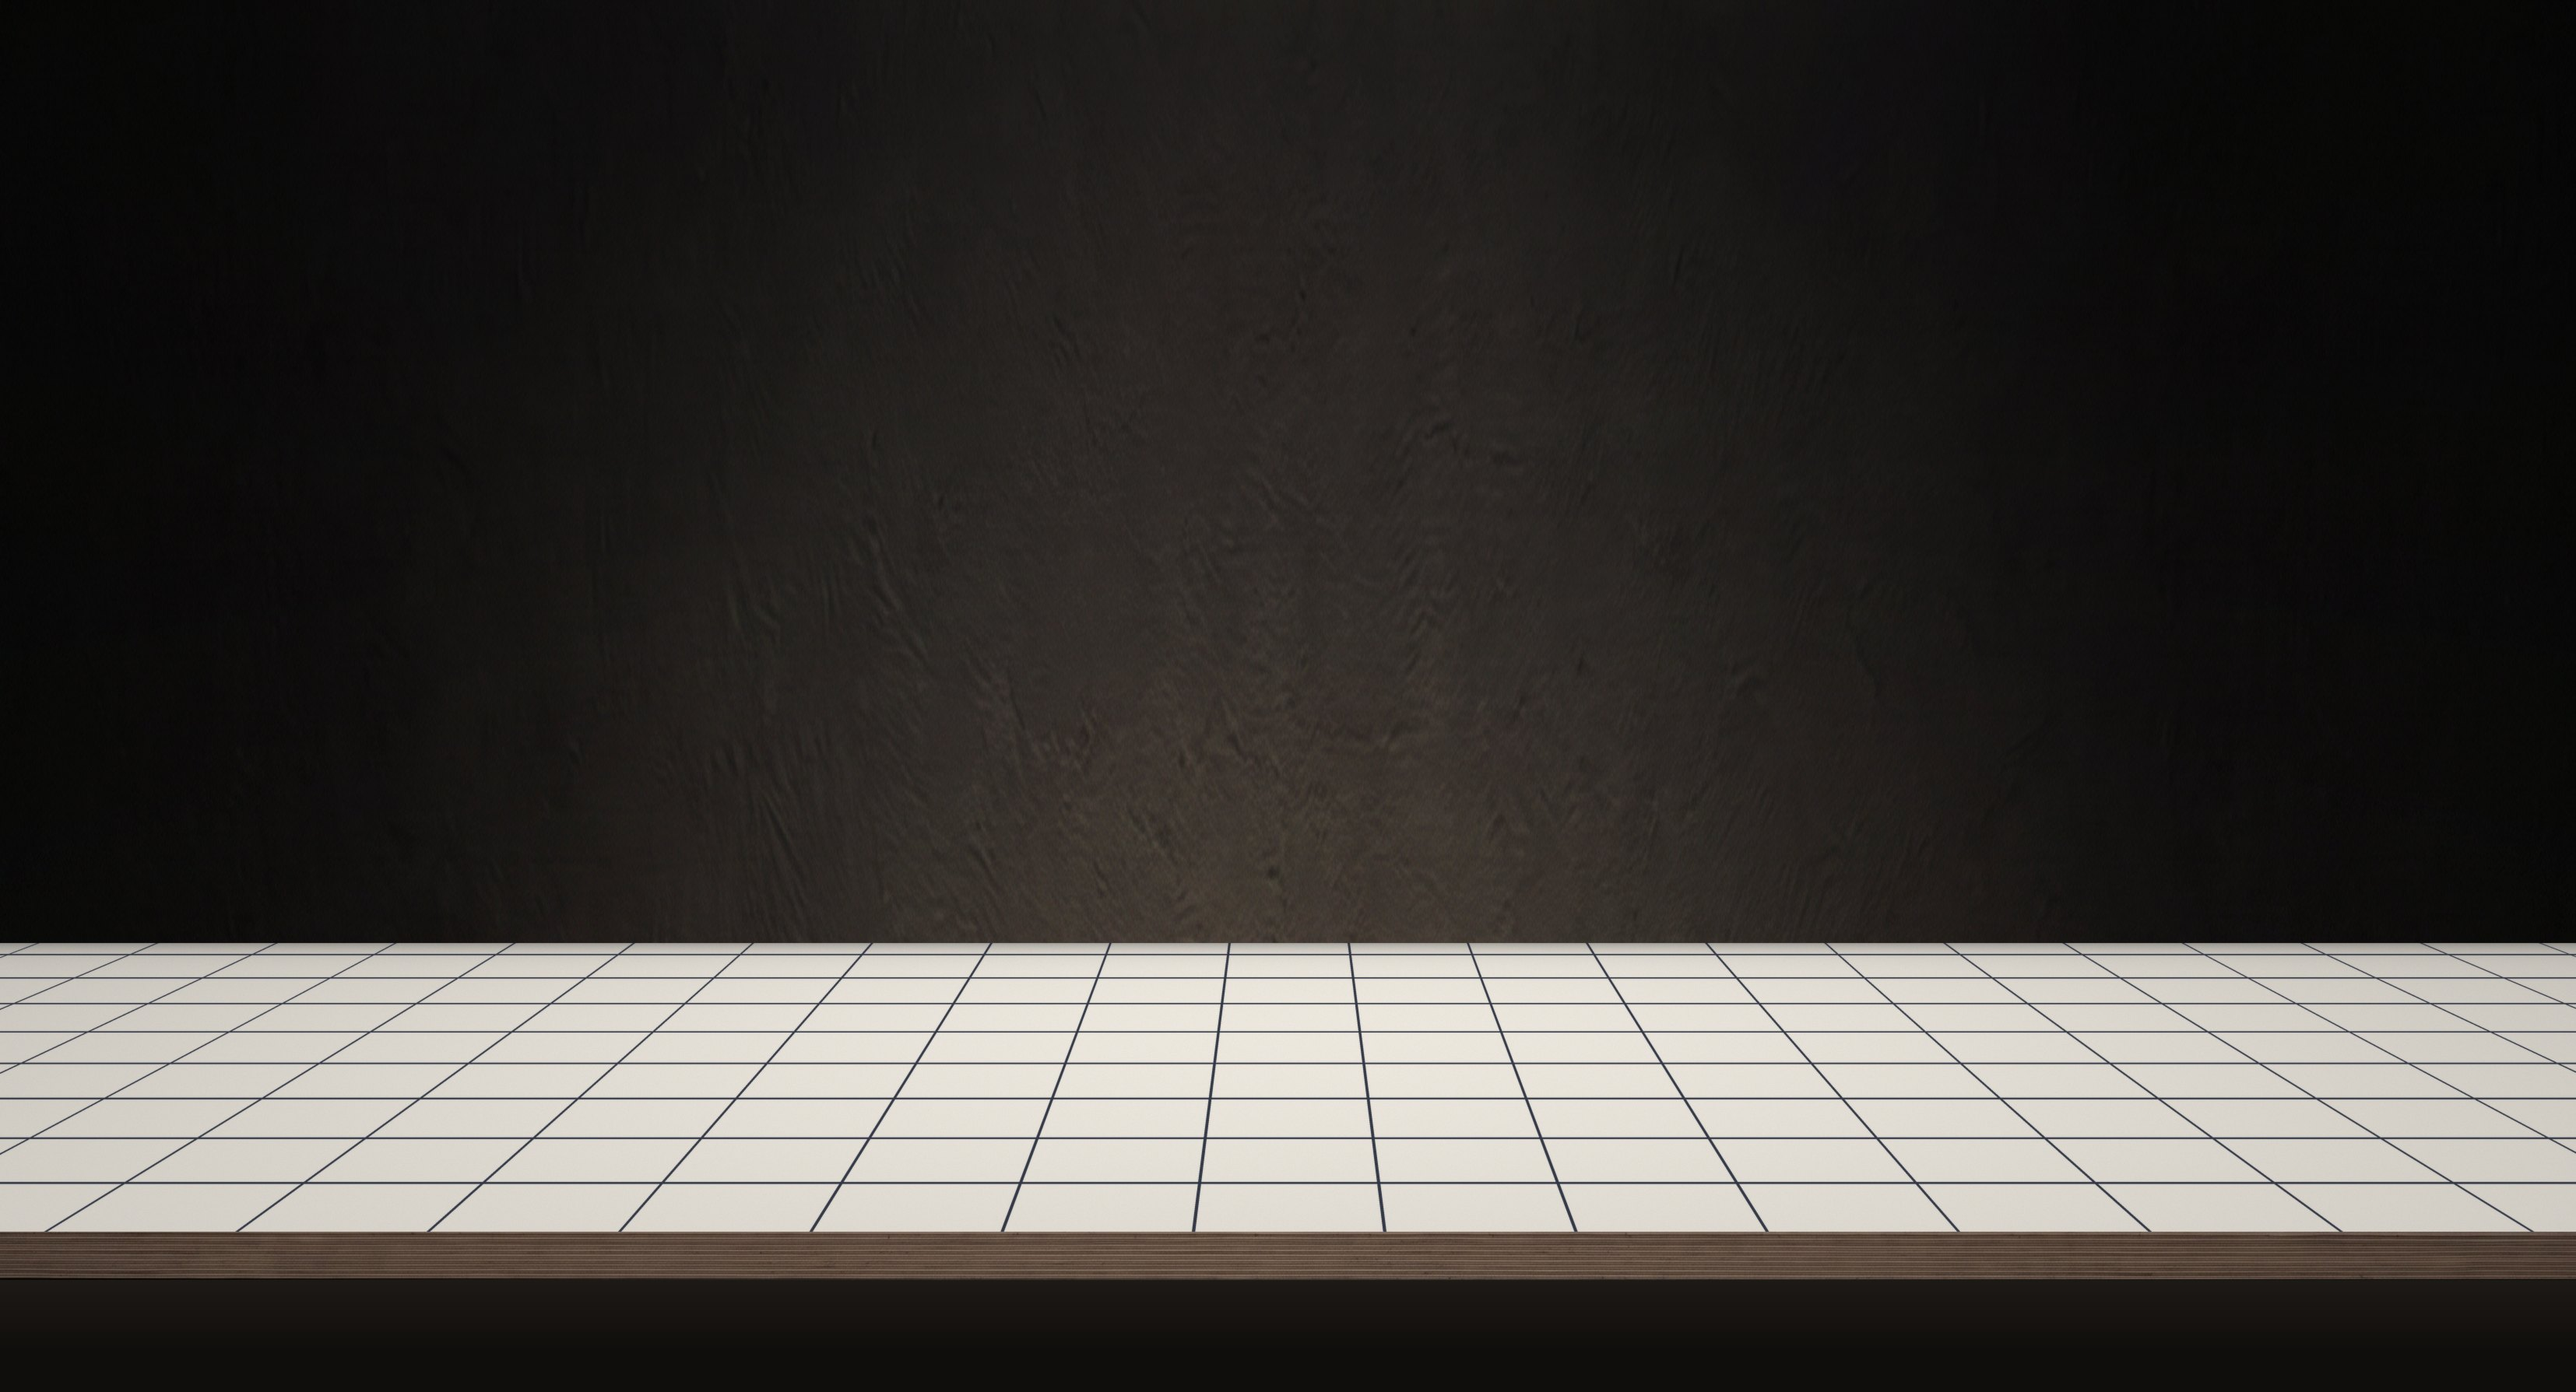
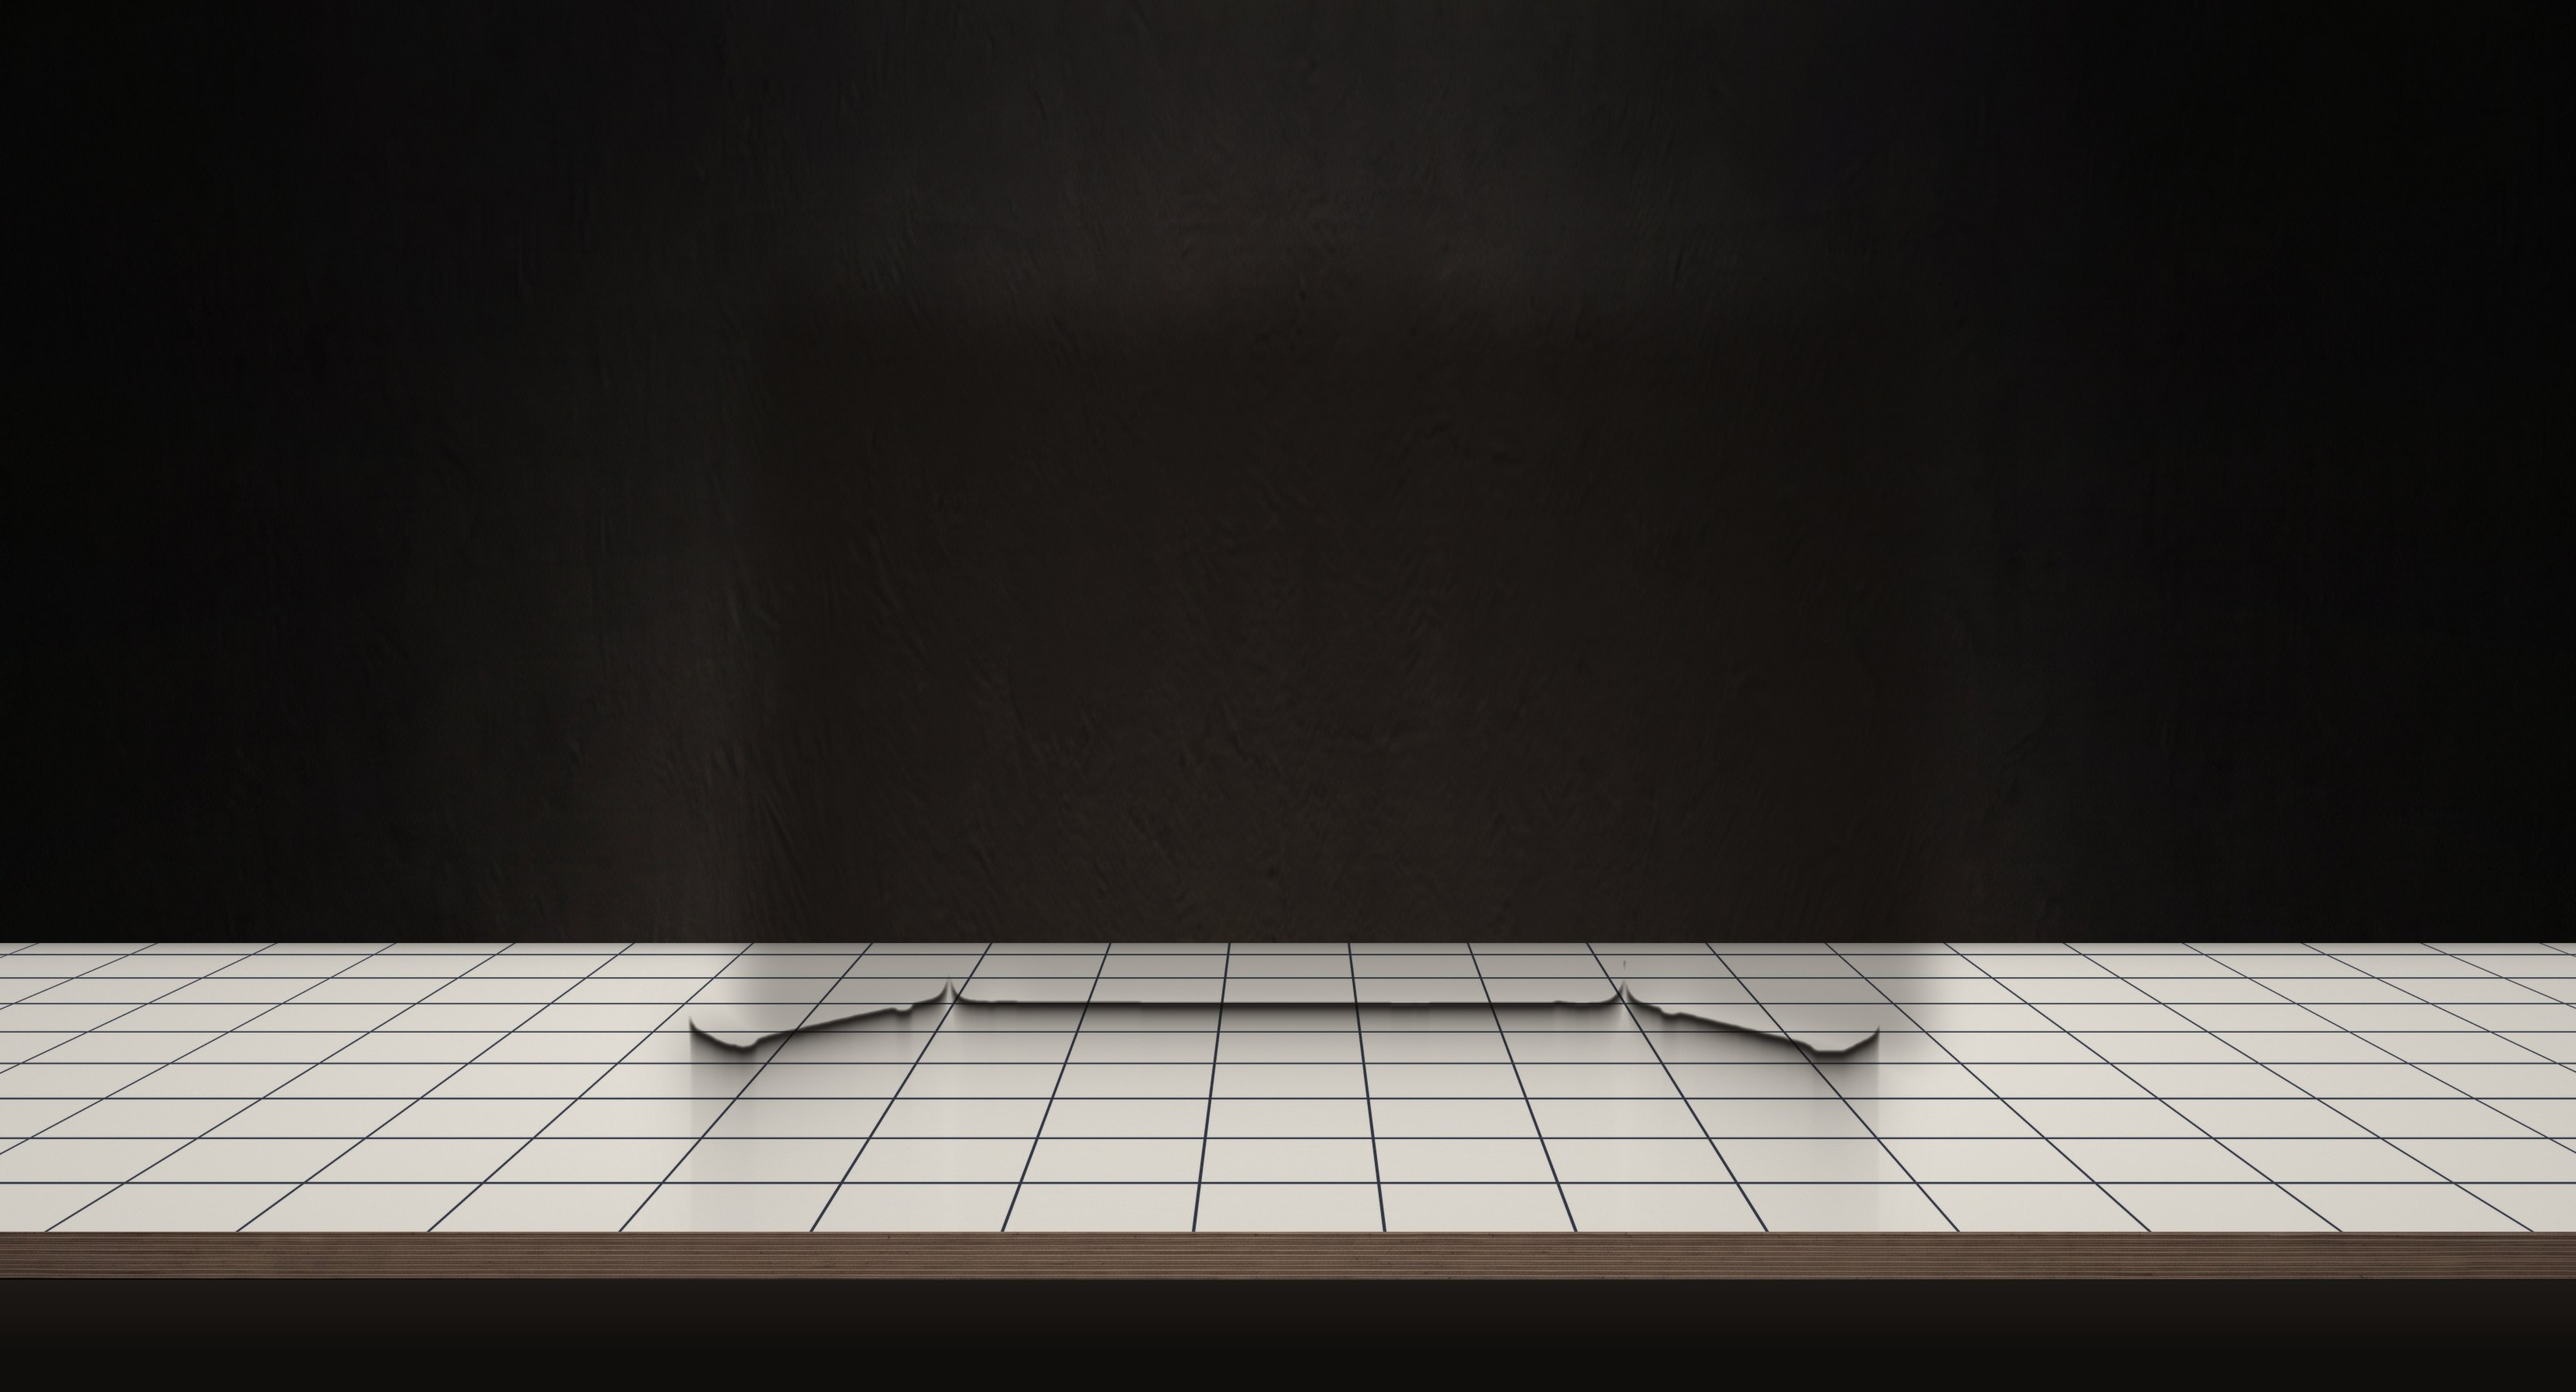
Bake the case's shadow into the desk, from its own outline
Contact core, penumbra and ambient pool run from the case's real bottom
profile (open2.png alpha) and fall off in metres of depth, so they hug
the trunk and both doors' feet in the same camera as the desk; the case
also throws a soft shadow onto the wall and the desk to its right. The
studio's four plum shadow layers are hidden at night so they don't double.

Changed region(s): [[0.249, 0.4612, 0.7782, 0.8301]]

diff --git a/app/globals.css b/app/globals.css
@@ -254,6 +254,10 @@ body > * { position: relative; z-index: 1; }
   mask-image: linear-gradient(180deg, #000 0%, #000 94%, transparent 100%);
 }
 [data-theme="dark"] .studio-floor { top: 125%; }
+/* The four studio shadow layers were tuned for the pale sweep. On the desk
+   the shadow is baked into the plate instead, from the case's own bottom
+   profile in the same camera, so these would only double it. */
+[data-theme="dark"] .case-shadow { display: none; }
 /* The grain and the ambient wash paint on <body>, under the opaque <main>, so
    on the home page they only ever showed in the strip below it — where, over
    a near-black field, they lifted the ground into a grey band. */

diff --git a/app/page.tsx b/app/page.tsx
@@ -41,6 +41,7 @@ function Shadow({ cx, bottom, w, h, rgb, a, blur, stop }: {
   return (
     <div
       aria-hidden
+      className="case-shadow"
       style={{
         position: "absolute",
         left: `${cx}%`,
